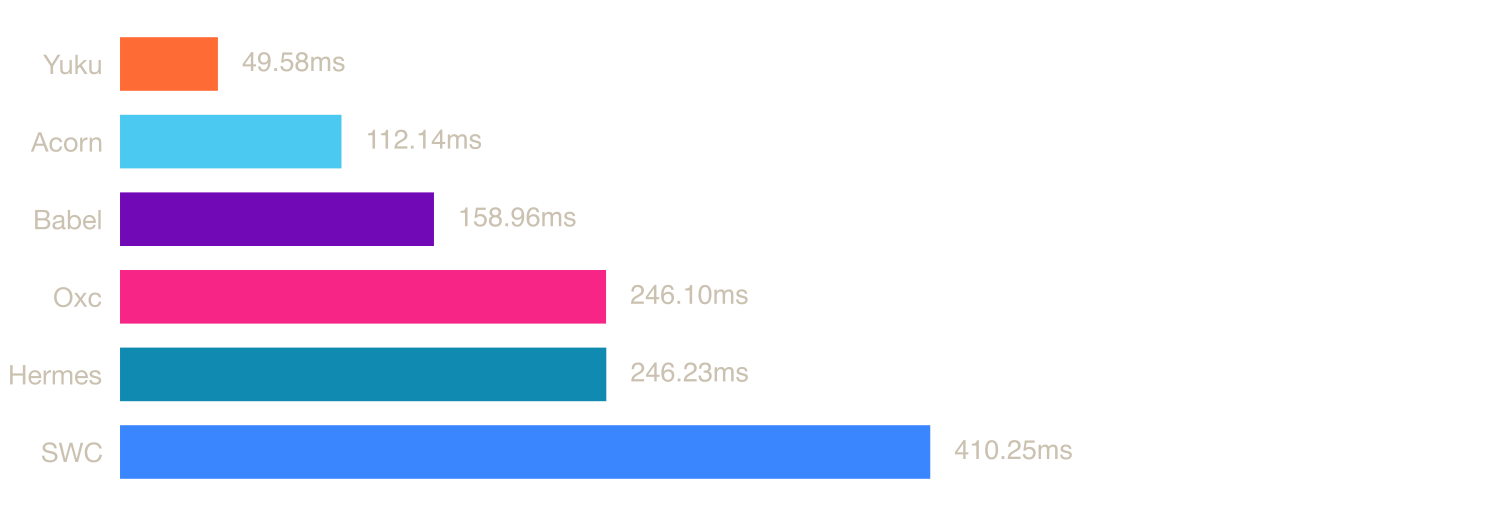
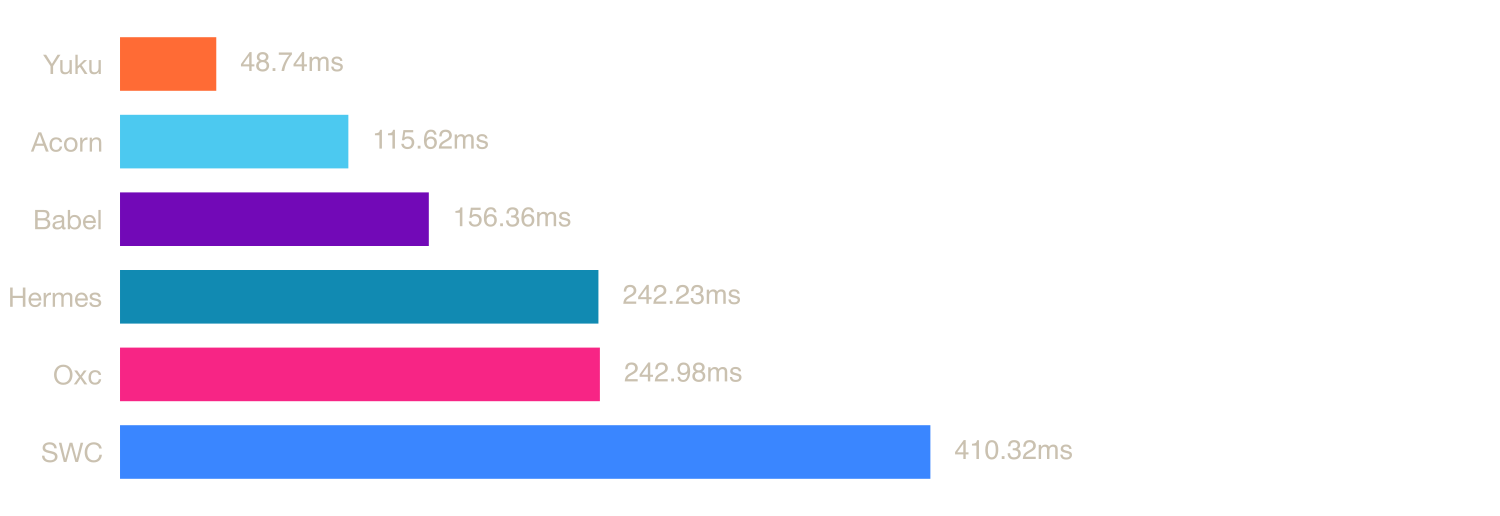
chore: update daily benchmark results

diff --git a/README.md b/README.md
@@ -47,12 +47,12 @@ A high-performance & spec-compliant JavaScript/TypeScript compiler written in Zi
 
 | Parser | Mean | Min | Max |
 |--------|------|-----|-----|
-| Yuku | 49.58 ms | 46.89 ms | 59.87 ms |
-| Acorn | 112.14 ms | 103.43 ms | 128.64 ms |
-| Babel | 158.96 ms | 122.58 ms | 212.65 ms |
-| Oxc | 246.10 ms | 227.59 ms | 271.69 ms |
-| Hermes | 246.23 ms | 217.60 ms | 315.08 ms |
-| SWC | 410.25 ms | 399.51 ms | 439.69 ms |
+| Yuku | 48.74 ms | 46.72 ms | 57.37 ms |
+| Acorn | 115.62 ms | 103.66 ms | 145.07 ms |
+| Babel | 156.36 ms | 127.92 ms | 198.87 ms |
+| Hermes | 242.23 ms | 221.87 ms | 287.75 ms |
+| Oxc | 242.98 ms | 226.74 ms | 279.49 ms |
+| SWC | 410.32 ms | 393.61 ms | 478.46 ms |
 
 ### [three.js](https://raw.githubusercontent.com/yuku-toolchain/parser-benchmark-files/refs/heads/main/three.js)
 
@@ -62,12 +62,12 @@ A high-performance & spec-compliant JavaScript/TypeScript compiler written in Zi
 
 | Parser | Mean | Min | Max |
 |--------|------|-----|-----|
-| Yuku | 14.49 ms | 13.82 ms | 20.24 ms |
-| Acorn | 24.93 ms | 23.80 ms | 31.32 ms |
-| Babel | 30.96 ms | 24.47 ms | 39.63 ms |
-| Oxc | 45.06 ms | 43.05 ms | 54.46 ms |
-| Hermes | 54.03 ms | 50.12 ms | 66.54 ms |
-| SWC | 77.98 ms | 75.32 ms | 87.72 ms |
+| Yuku | 14.61 ms | 13.82 ms | 23.12 ms |
+| Acorn | 25.53 ms | 23.99 ms | 30.27 ms |
+| Babel | 32.60 ms | 25.55 ms | 57.18 ms |
+| Oxc | 43.68 ms | 42.47 ms | 48.60 ms |
+| Hermes | 54.84 ms | 50.12 ms | 73.19 ms |
+| SWC | 75.41 ms | 74.08 ms | 79.53 ms |
 
 ### [react.js](https://raw.githubusercontent.com/yuku-toolchain/parser-benchmark-files/refs/heads/main/react.js)
 
@@ -77,12 +77,12 @@ A high-performance & spec-compliant JavaScript/TypeScript compiler written in Zi
 
 | Parser | Mean | Min | Max |
 |--------|------|-----|-----|
-| Yuku | 0.35 ms | 0.33 ms | 4.95 ms |
-| Acorn | 0.82 ms | 0.77 ms | 4.06 ms |
-| Babel | 0.91 ms | 0.81 ms | 3.42 ms |
-| Oxc | 1.38 ms | 1.31 ms | 3.22 ms |
-| Hermes | 1.66 ms | 1.53 ms | 6.21 ms |
-| SWC | 2.52 ms | 2.44 ms | 3.67 ms |
+| Yuku | 0.35 ms | 0.33 ms | 4.91 ms |
+| Acorn | 0.81 ms | 0.76 ms | 2.05 ms |
+| Babel | 0.95 ms | 0.82 ms | 3.80 ms |
+| Oxc | 1.34 ms | 1.29 ms | 2.38 ms |
+| Hermes | 1.62 ms | 1.52 ms | 5.75 ms |
+| SWC | 2.54 ms | 2.44 ms | 3.96 ms |
 
 ## Run Benchmarks
 
